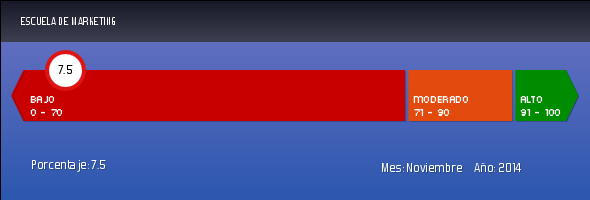
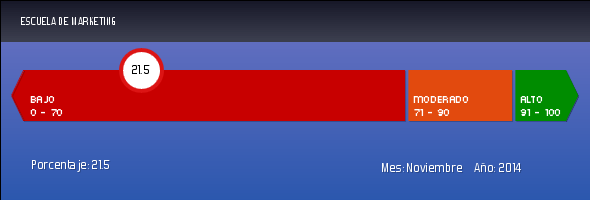
modified:   app/controllers/MapasBalancedController.php

Changed region(s): [[0.1831, 0.24, 0.2746, 0.45], [0.061, 0.24, 0.1525, 0.45], [0.1525, 0.78, 0.1831, 0.87]]

diff --git a/app/controllers/MapasBalancedController.php b/app/controllers/MapasBalancedController.php
@@ -54,7 +54,7 @@ class MapasBalancedController extends BaseController {
                     $Indicadores=Empleado::storedProcedureCall('CALL consolidadoMacroprocesos('.$i.',1)');
                     foreach ($Indicadores as $indicador) 
                     {
-                        $total+=$indicador->resultado;
+                        $total+=$indicador->avance;
                     }
                 }
 			if ($this->permiso()==1) 
@@ -71,7 +71,7 @@ class MapasBalancedController extends BaseController {
                     $Indicadores=Empleado::storedProcedureCall('CALL consolidadoMacroprocesos('.$i.',2)');
                     foreach ($Indicadores as $indicador) 
                     {
-                        $total+=$indicador->resultado;
+                        $total+=$indicador->avance;
                     }
                 }
 			if ($this->permiso()==1) 
@@ -88,7 +88,7 @@ class MapasBalancedController extends BaseController {
                     $Indicadores=Empleado::storedProcedureCall('CALL consolidadoMacroprocesos('.$i.',4)');
                     foreach ($Indicadores as $indicador) 
                     {
-                        $total+=$indicador->resultado;
+                        $total+=$indicador->avance;
                     }
                 }
 			if ($this->permiso()==1) 
@@ -105,7 +105,7 @@ class MapasBalancedController extends BaseController {
                     $Indicadores=Empleado::storedProcedureCall('CALL consolidadoMacroprocesos('.$i.',5)');
                     foreach ($Indicadores as $indicador) 
                     {
-                        $total+=$indicador->resultado;
+                        $total+=$indicador->avance;
                     }
                 }
 			if ($this->permiso()==1) 
@@ -122,7 +122,7 @@ class MapasBalancedController extends BaseController {
                     $Indicadores=Empleado::storedProcedureCall('CALL consolidadoMacroprocesos('.$i.',5)');
                     foreach ($Indicadores as $indicador) 
                     {
-                        $total+=$indicador->resultado;
+                        $total+=$indicador->avance;
                     }
                 }
 			if ($this->permiso()==1) 
@@ -139,7 +139,7 @@ class MapasBalancedController extends BaseController {
                     $Indicadores=Empleado::storedProcedureCall('CALL consolidadoMacroprocesos('.$i.',8)');
                     foreach ($Indicadores as $indicador) 
                     {
-                        $total+=$indicador->resultado;
+                        $total+=$indicador->avance;
                     }
                 }
 			if ($this->permiso()==1) 
